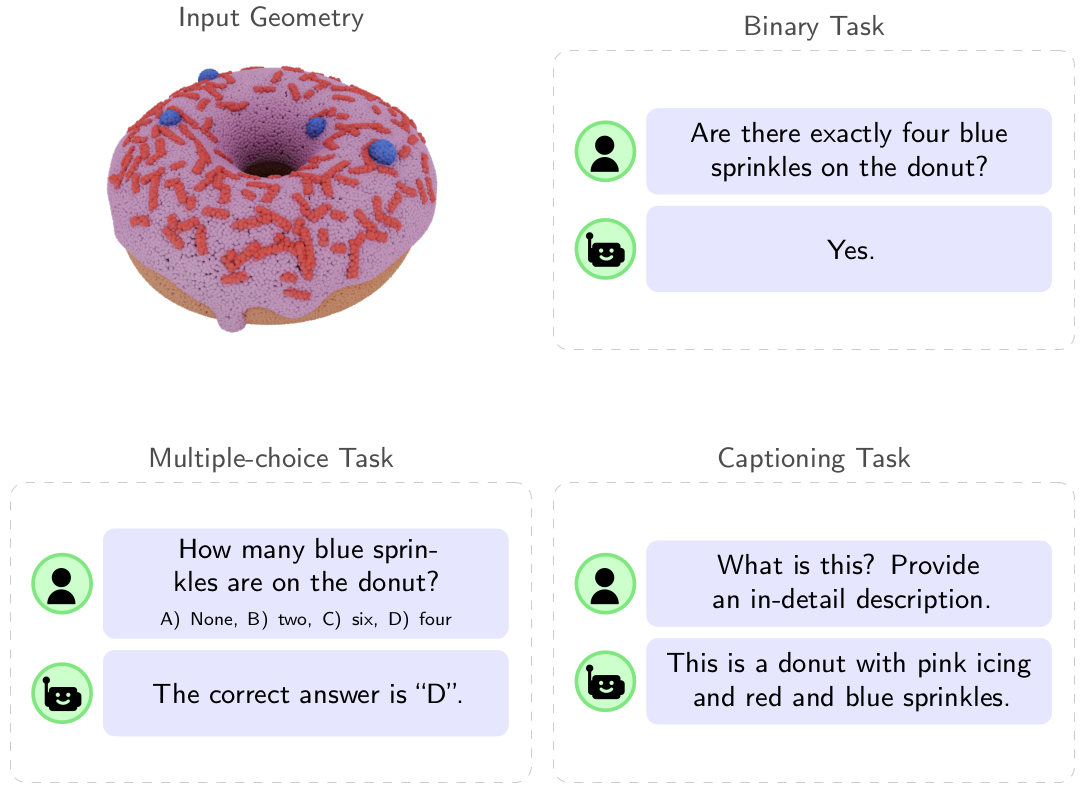
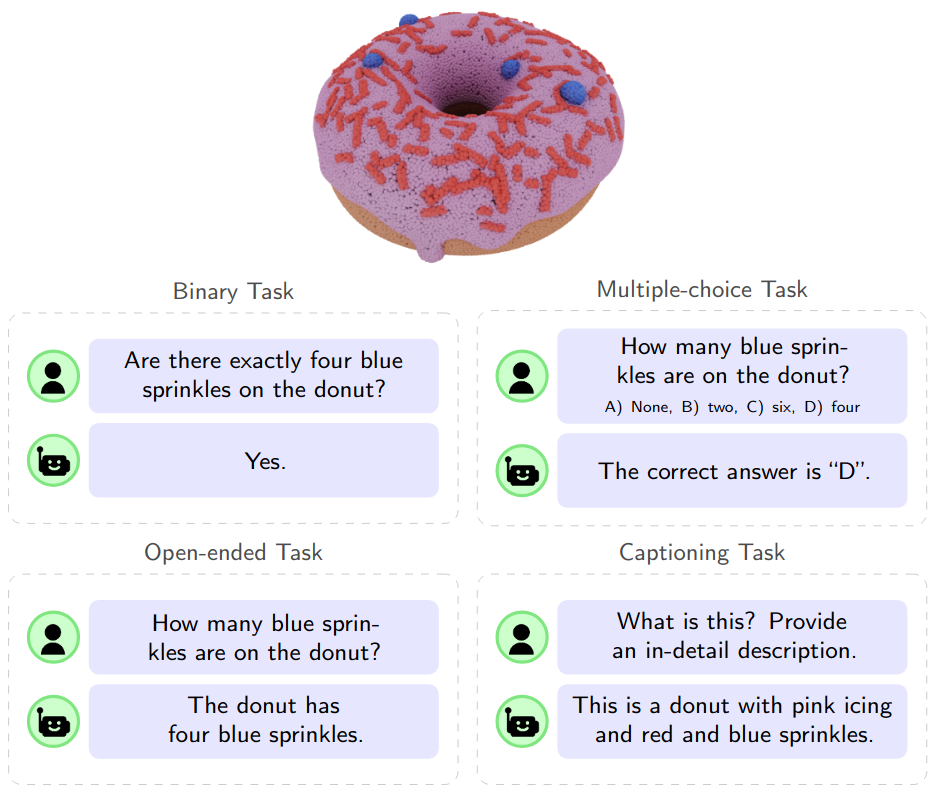
Update Readme

diff --git a/README.md b/README.md
@@ -9,9 +9,9 @@ Official implementation of **GLUE3D: General Language Understanding Evaluation f
 
 GLUE3D is a Q&A benchmark for evaluation of 3D-LLMs object understanding capabilities. It is built around 128 richly textured surfaces spanning creatures, objects, architecture and transport. Each surface is provided as a 50 k-point RGB point cloud, a 8K-point RGB point cloud, a 512 × 512 RGB rendering, and five RGB-D multiviews. These multiple representations enable point-for-point evaluation across several modalities.
 
-GLUE3D consists of three Q&A task types: *binary question answering*, *multiple-choice question answering*, and *open-ended captioning*. This diverse set of tasks enables a more robust and comprehensive assessment of multimodal understanding in 3D-LLMs.
+GLUE3D consists of four Q&A task types: *binary question answering*, *multiple-choice question answering*, *open-ended question answering*, and *captioning*. This diverse set of tasks enables a more robust and comprehensive assessment of multimodal understanding in 3D-LLMs.
 
-![](assets/teaser.jpg)
+![](assets/teaser.png)
 
 ---
 **Table of Contents**
